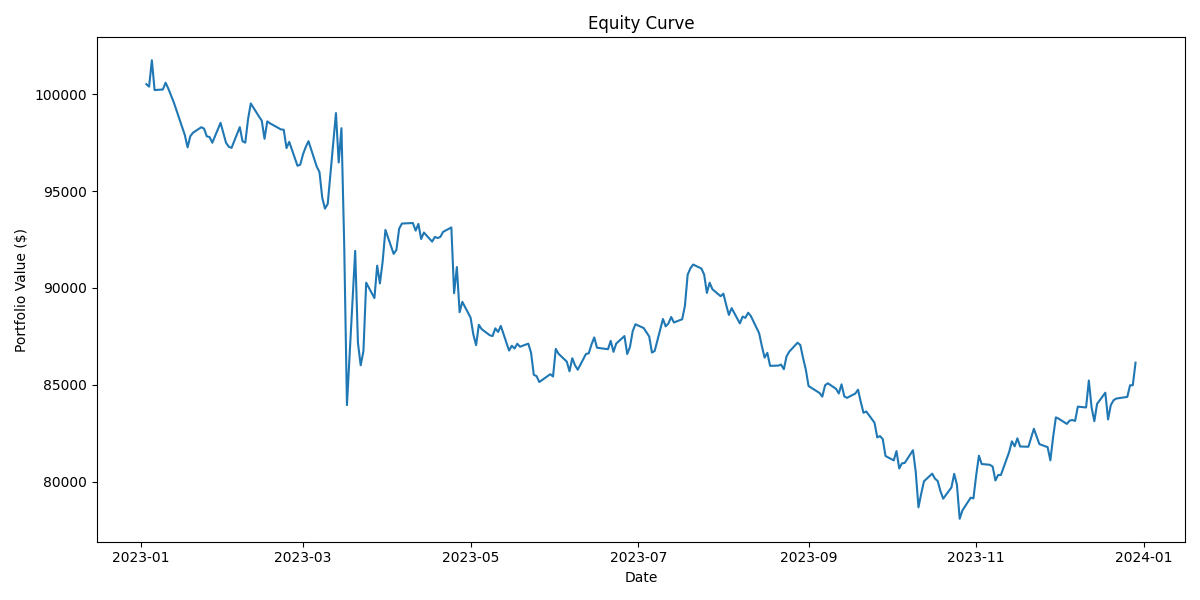
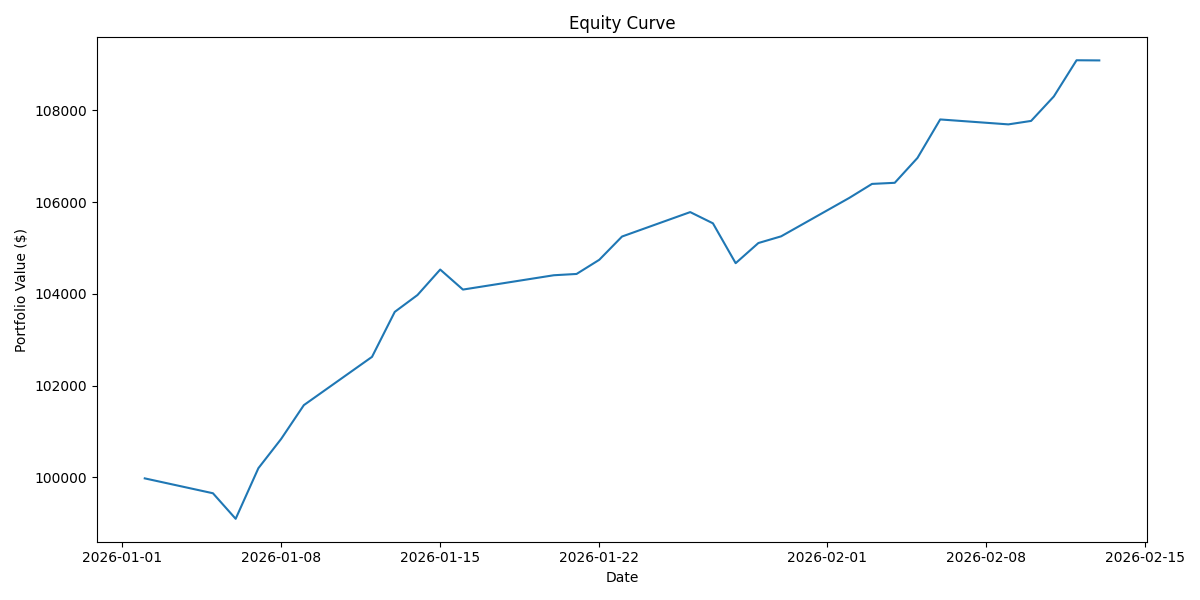
Fully functioning backtester.

diff --git a/test.py b/test.py
@@ -11,8 +11,8 @@ from harbinger import (
 )
 import datetime as dt
 
-start = dt.date(2023, 1, 1)
-end = dt.date(2023, 12, 31)
+start = dt.date(2026, 1, 1)
+end = dt.date(2026, 12, 31)
 data = MyDataAdapter(start, end)
 
 strategy = OptimizationStrategy(
